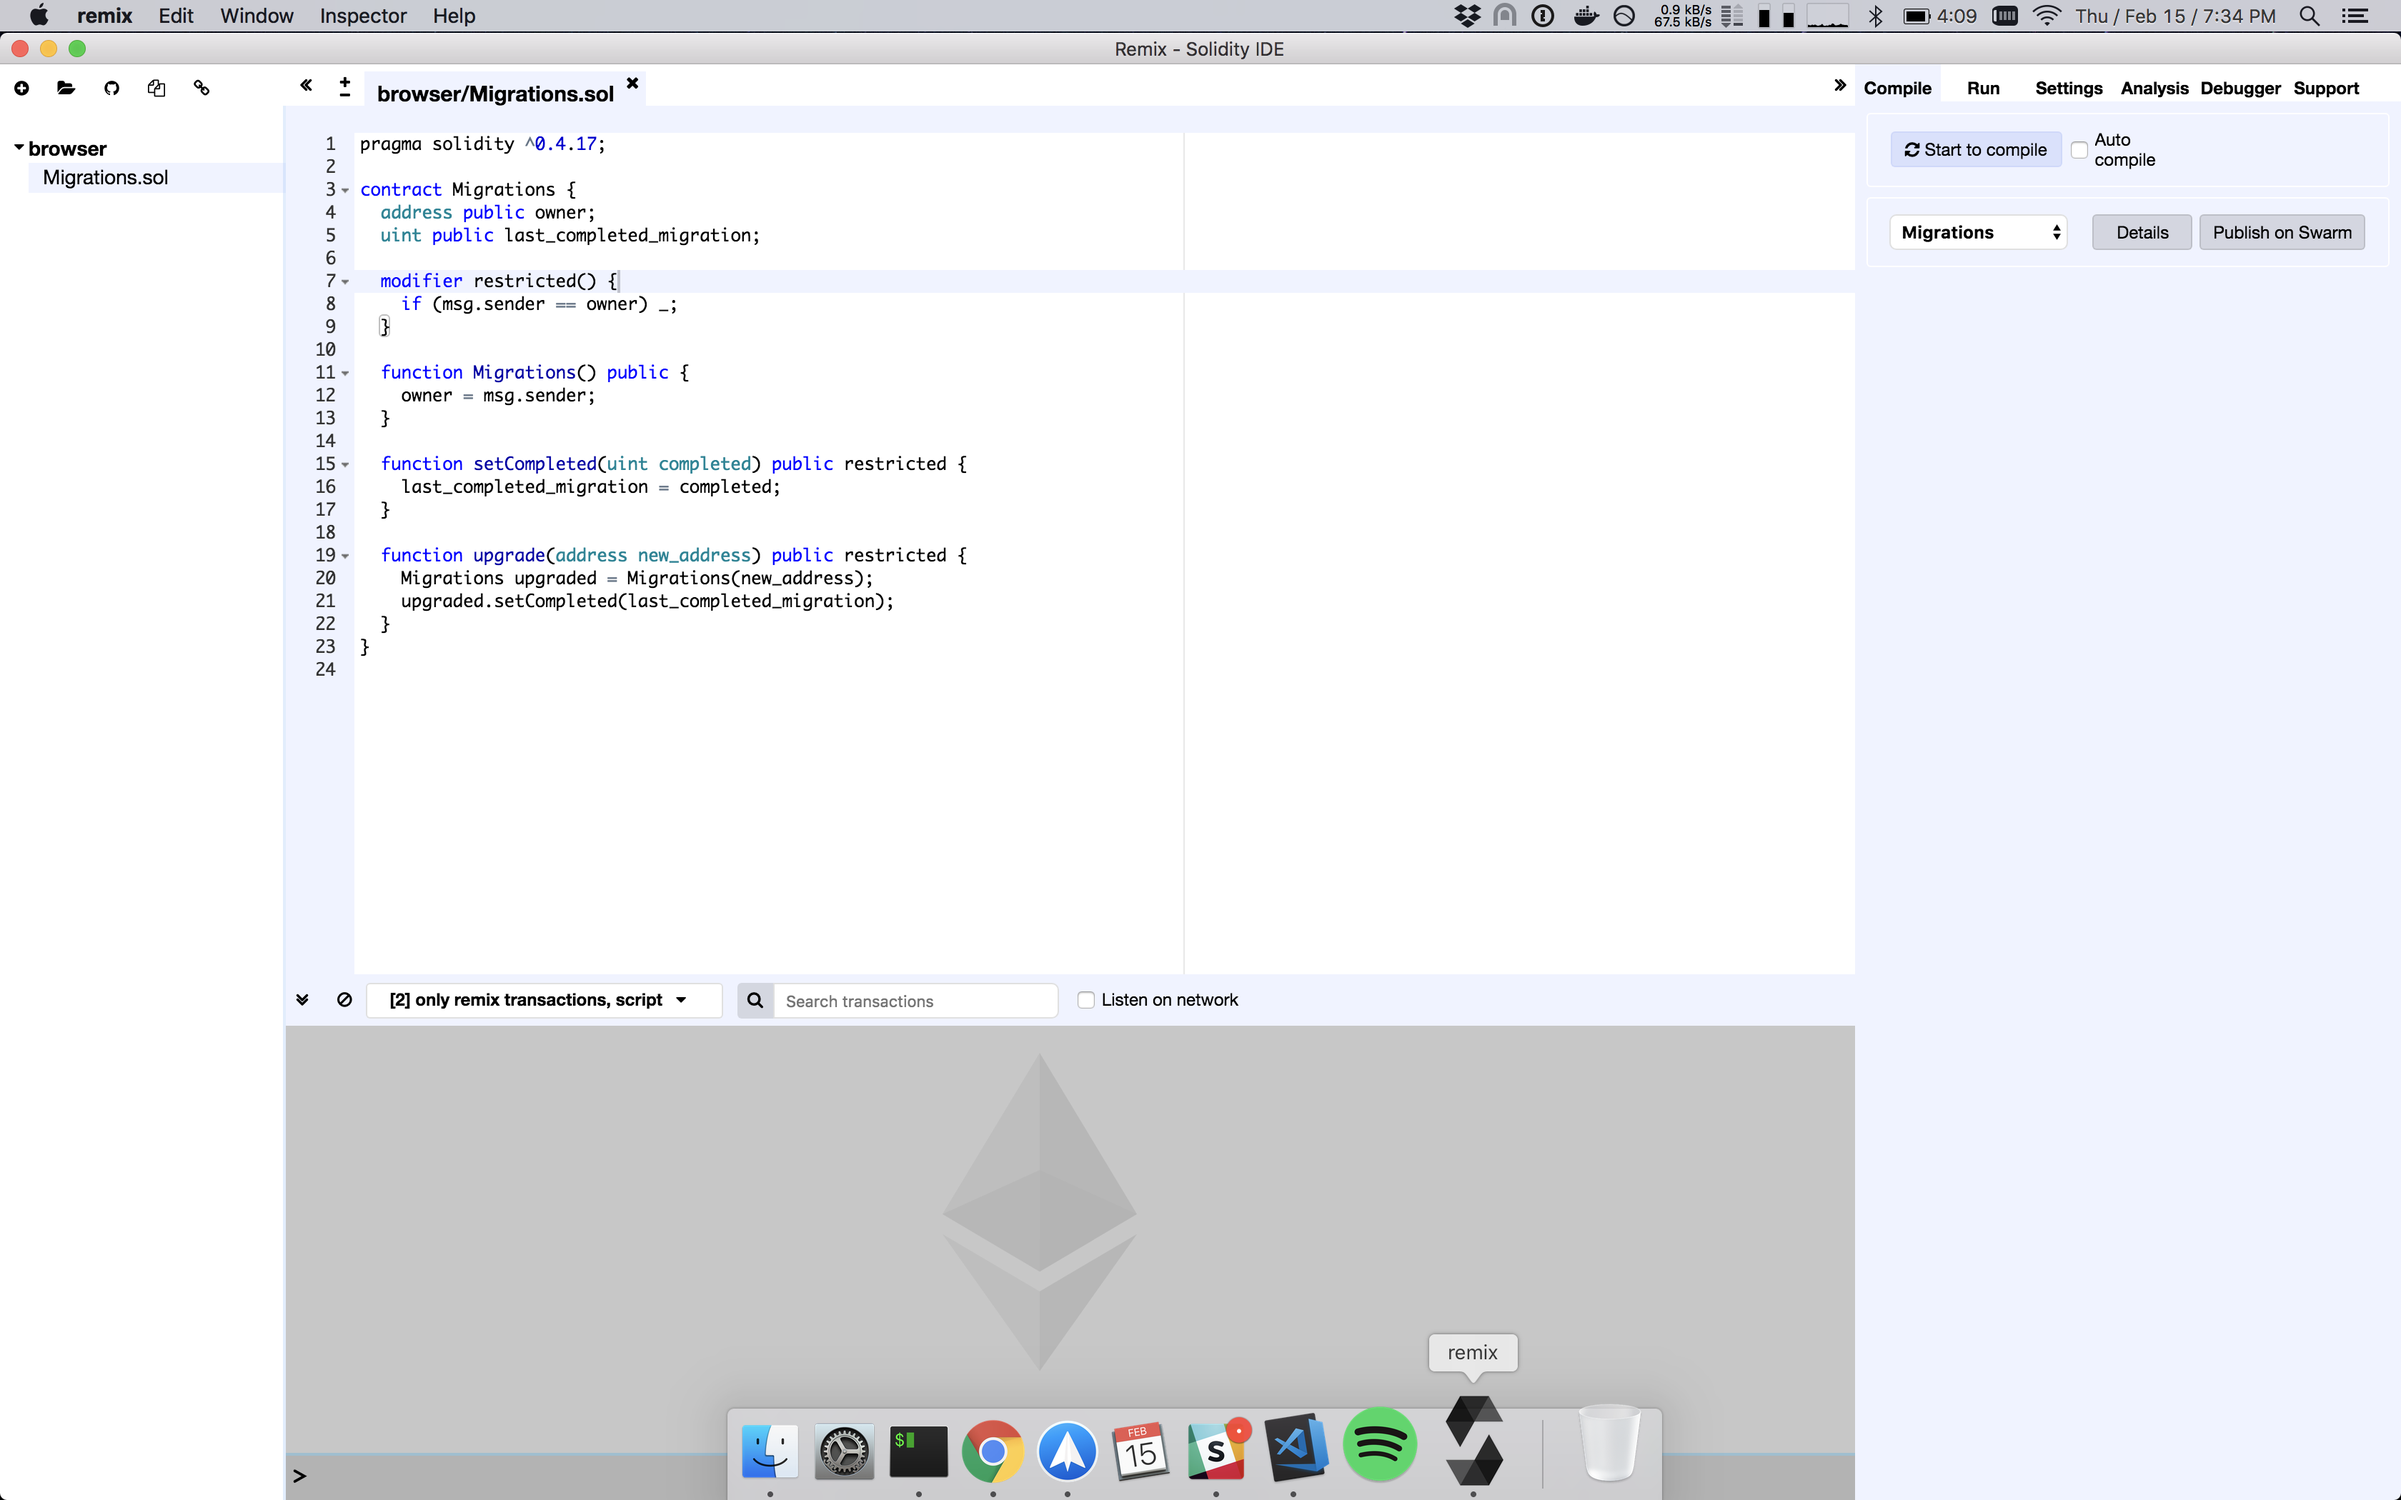
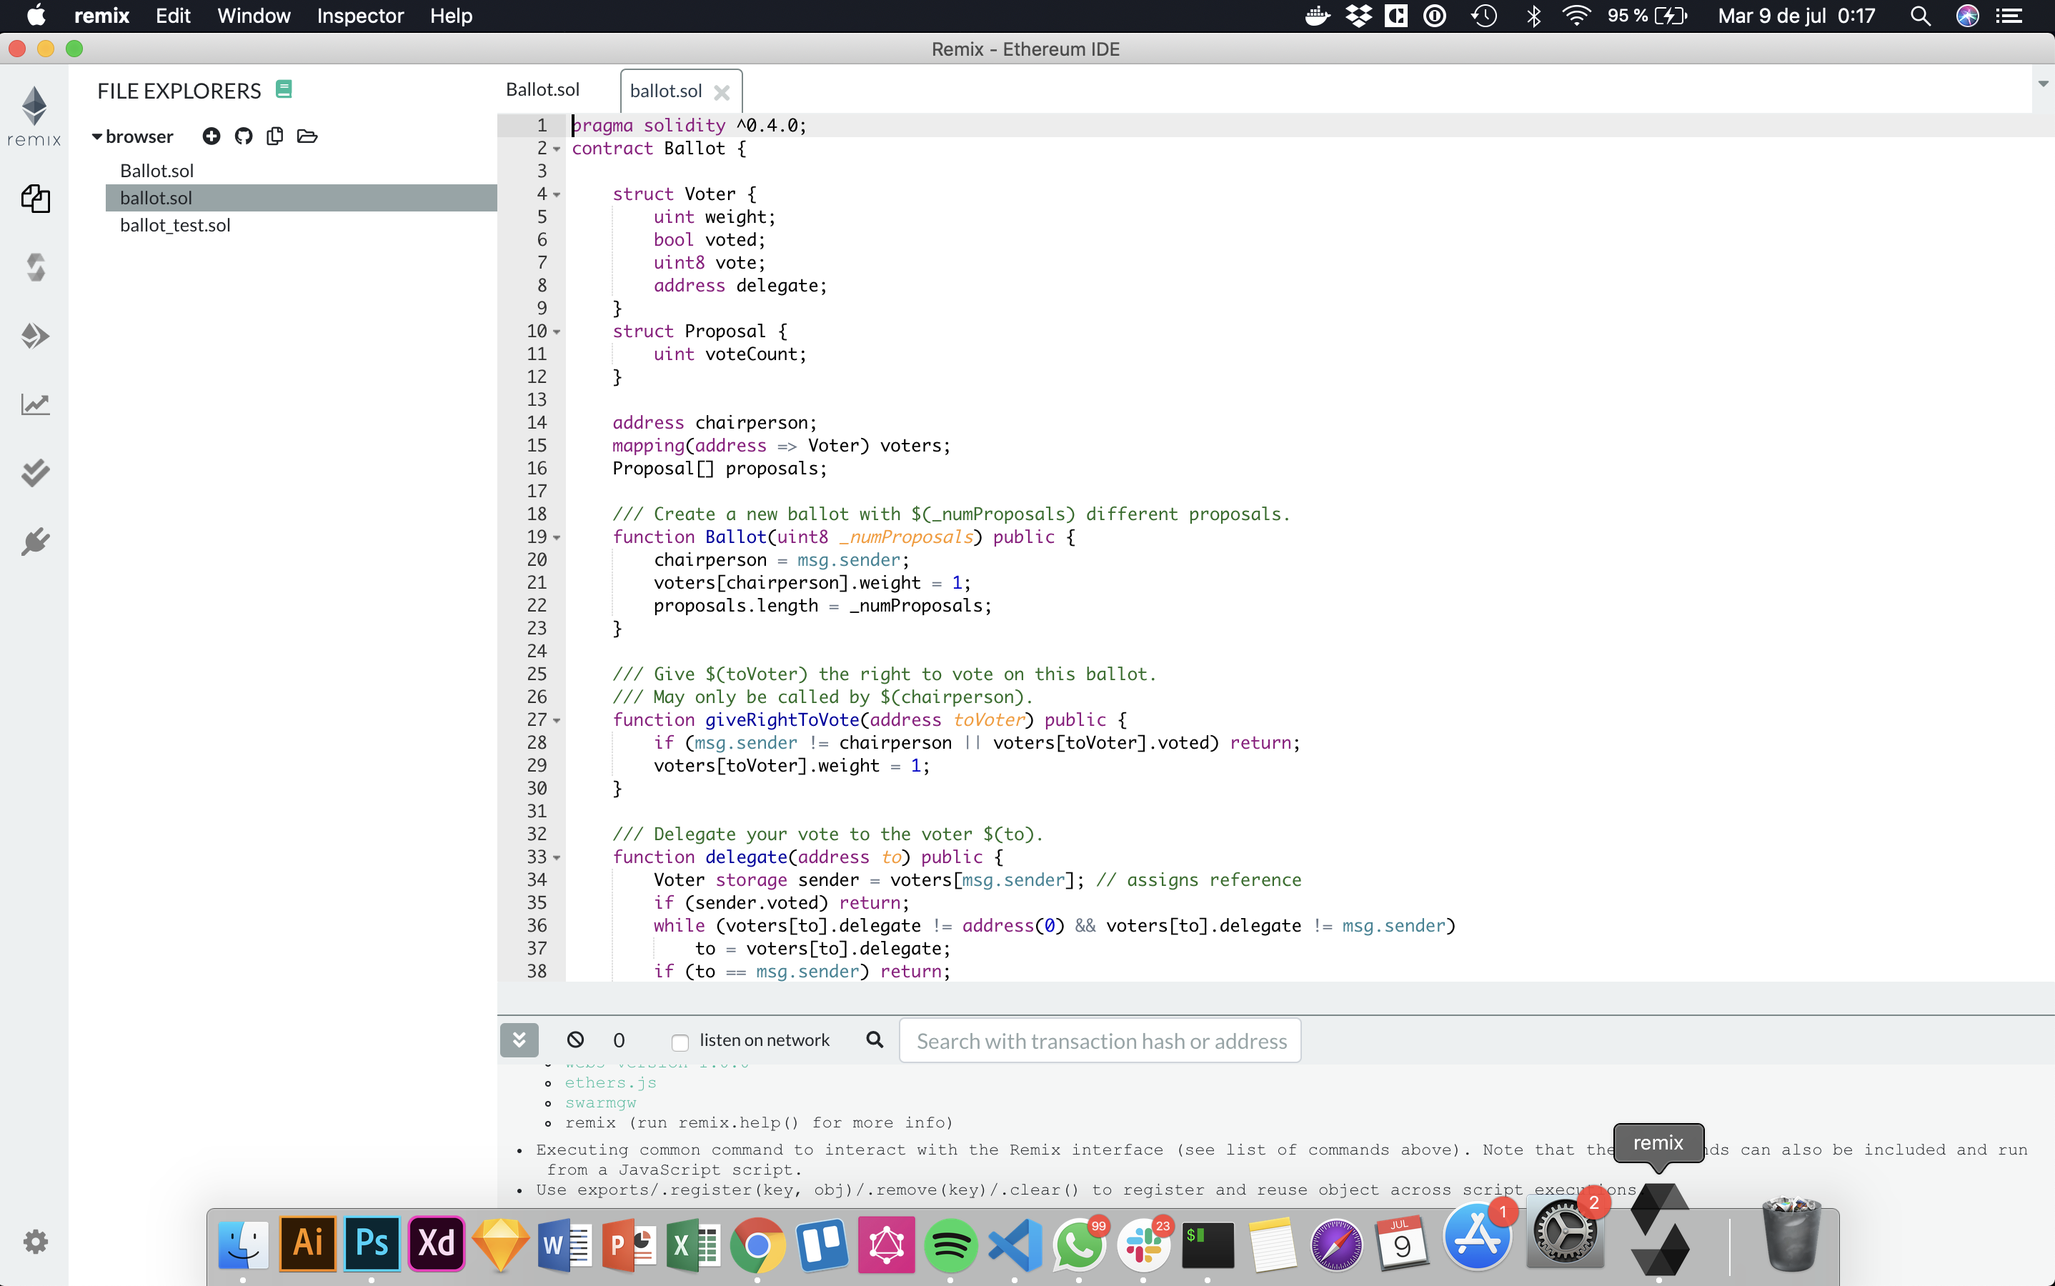
chore(README): Update screenshot.
Screenshot was not according with the new remix version, so it was updated. Also, the routes of the icon and screenshot were updated to point to the source repo.

No breaking changes

diff --git a/README.md b/README.md
@@ -1,4 +1,4 @@
-# <img align="left" alt="remix" src="https://raw.githubusercontent.com/horizon-games/remix-app/master/resources/icon.png" width="64" /> remix-app
+# <img align="left" alt="remix" src="./resources/icon.png" width="64" /> remix-app
 
 <br/>
 
@@ -6,7 +6,7 @@ This project packages Remix, the excellent Ethereum Solidity IDE, into
 a dedicated desktop application that runs from your local machine. Remix-app
 also caches solc compiler downloads so Remix is fully usable in airplane mode.
 
-<img align="center" alt="screenshot" src="https://raw.githubusercontent.com/horizon-games/remix-app/master/resources/screenshot.png" width="1024" />
+<img align="center" alt="screenshot" src="./resources/screenshot.png" width="1024" />
 
 ## Install or Build your own
 
